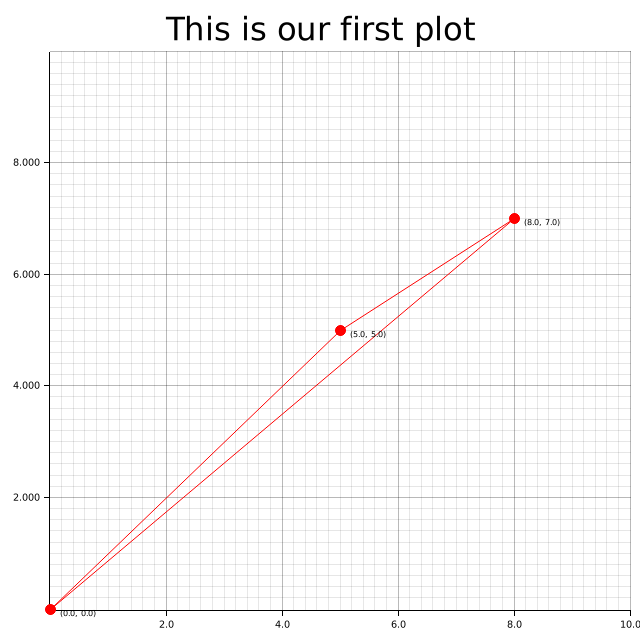
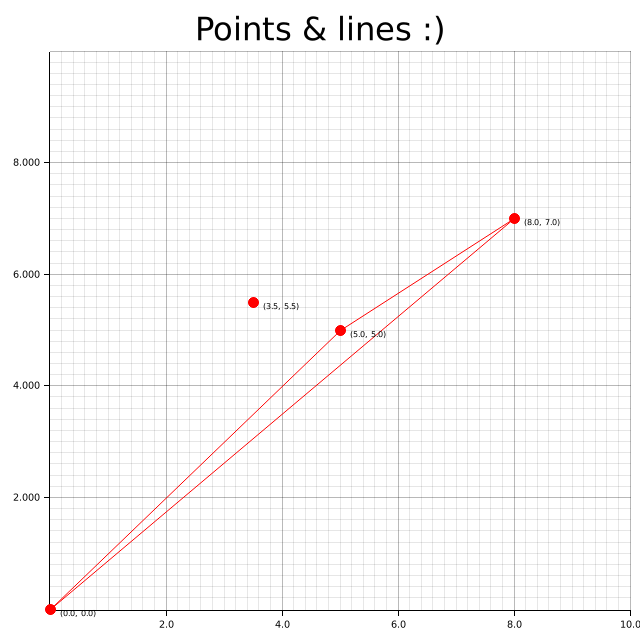
Confirm we can add to points list
Appear we can add arbitrary number of points too.

Changed region(s): [[0.25, 0.0, 0.75, 0.0625], [0.375, 0.4688, 0.4688, 0.5]]

diff --git a/src/main.rs b/src/main.rs
@@ -6,7 +6,7 @@ fn main() -> Result<(), Box<dyn std::error::Error>> {
     // After this point, we should be able to draw construct a chart context
     let mut chart = ChartBuilder::on(&root)
         // Set the caption of the chart
-        .caption("This is our first plot", ("sans-serif", 40).into_font())
+        .caption("Points & lines :)", ("sans-serif", 40).into_font())
         // Set the size of the label region
         .x_label_area_size(20)
         .y_label_area_size(40)
@@ -30,7 +30,7 @@ fn main() -> Result<(), Box<dyn std::error::Error>> {
     ))?;
     // Similarly, we can draw point series
     chart.draw_series(PointSeries::of_element(
-        vec![(0.0, 0.0), (5.0, 5.0), (8.0, 7.0)],
+        vec![(0.0, 0.0), (5.0, 5.0), (8.0, 7.0), (3.5, 5.5)],
         5,
         &RED,
         &|c, s, st| {
